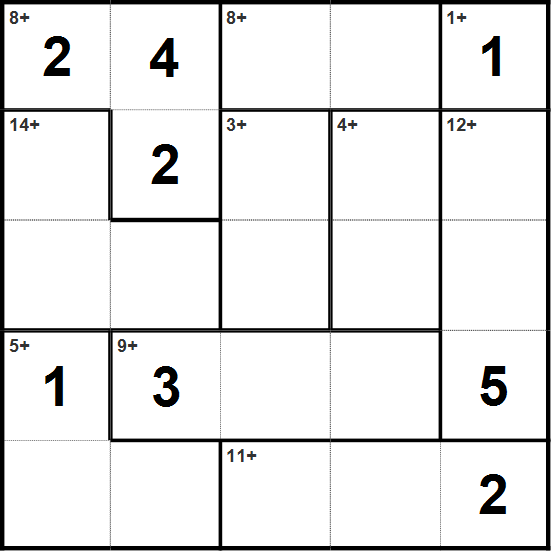
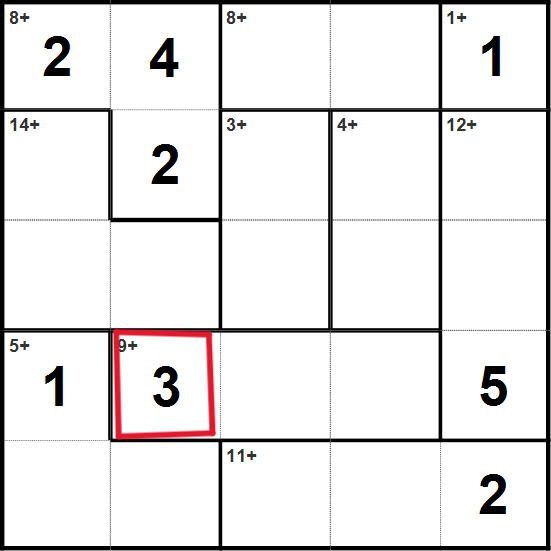
regles et tech

Changed region(s): [[0.1851, 0.5862, 0.4011, 0.8022]]

diff --git a/calcudoku/src/main/java/fr/univ/calcudoku/controller/ReglesTechniquesController.java b/calcudoku/src/main/java/fr/univ/calcudoku/controller/ReglesTechniquesController.java
@@ -190,25 +190,27 @@ public class ReglesTechniquesController {
             "- Calculatrice : Ouvre une petite calculatrice classique pour faire vos propres essais.\n" +
             "De même, vous trouvez les statistiques liées à votre profil et les parties en cours depuis l'onglet de Profile.", 
             null, // Vous pourrez mettre une capture d'écran de la calculatrice ici plus tard !
-            "Les aides au calcul"
+            ""
         ));
         
         // PAGE 2 : Les contrôles et annotations
         pages.add(new PageContenu(
-            "Vous pouvez personnaliser la façon dont vous remplissez la grille :\n\n" +
-            "- Déplacement : Jouez principalement au clavier en naviguant avec les flèches.\n" +
-            "- Placer chiffre : Cliquez sur une case pour ouvrir un menu circulaire et choisir votre chiffre.\n" +
-            "- Annotation : Permet d'écrire des petits chiffres 'brouillon' dans les coins d'une case.", 
-            null, // Une capture d'écran d'une case avec des annotations serait top ici
-            "Les modes de saisie"
+            "Vous pouvez remplir la grille avec les touches du clavier et la souris :\n\n" +
+            "- Déplacement : les 4 flèches du clavier.\n" +
+            "- Placer chiffre : à l'aide de touches numériques.\n" +
+            "- Annotation : Permet d'écrire des petits chiffres 'brouillon' dans une case. En appuyant sur la touche 'A'", 
+            "/grilles/images/touches.png", // Une capture d'écran d'une case avec des annotations serait top ici
+            "Contrôles du jeu"
         ));
 
         // PAGE 3 : plein partie du jeu
         pages.add(new PageContenu(
             "Depuis une partie du jeu, vous possedez le menu roulant qui permet de :\n\n" +
+            "- Abondonner : abondonnez la partie.\n" +
+            "- Recommencer : reinitialisez la partie.\n" +
             "- Changer le mode d'aide au calcul : combinaisons, calculatrice.\n" +
             "- Retour à Règles & Techniques : Consulter les règles du jeu, les fonctionnalités et les techniques.\n",
-            null, // Une capture d'écran d'une case avec des annotations serait top ici
+            "/grilles/images/menu.png", // Une capture d'écran d'une case avec des annotations serait top ici
             "Menu roulant"
         ));
 
@@ -216,22 +218,75 @@ public class ReglesTechniquesController {
     }
 
     @FXML
+    private void afficherBase() {
+        List<PageContenu> pages = new ArrayList<>();
+        
+        pages.add(new PageContenu(
+            "Certains puzzles CalcuDoku, particulièrement faciles, contiennent des blocs constitués d'un seul carré. Ceux-ci sont en fait donnés des indices et le nombre à placer est simplement le nombre dans le coin supérieur gauche du bloc carré unique, quelles que soient les opérations mathématiques indiquées au coin de cage.",
+            "/grilles/images/tech0.png", // 
+            "une case unique"
+        ));
+
+        chargerSection("Techniques de base", pages);
+    }
+
+    @FXML
     private void afficherBlocsUniques() {
         List<PageContenu> pages = new ArrayList<>();
         
         pages.add(new PageContenu(
-            "Technique : Le Bloc Unique (Addition)\n\n" +
-            " Vous rencontrez un bloc avec une opération dont la solution est mathématiquement unique.\n" +
-            " - L'Application : Par exemple, un bloc de deux cases avec la somme '4' ne peut contenir que la combinaison 1+3. Même si vous ne connaissez pas encore l'ordre, vous pouvez annoter ces deux cases avec un '1' et un '3'.", 
-            "/grilles/images/blocUnique1.png", // 
+            "Technique : Le Bloc Unique 1\n\n" +
+            "Dans la colonne de gauche du puzzle SingleOp CalcuDoku ci-dessous, nous voyons un bloc de deux carrés avec la somme 4. Puisque les règles CalcuDoku ne permettent pas au même nombre d’apparaître plus d’une fois dans une ligne ou une colonne, la seule combinaison pour satisfaire cette exigence est 1+3 bien que nous ne sachions pas encore dans quel ordre les nombres sont placés. On peut donc placer 4 dans le carré inférieur de la colonne de gauche, et 3, le reste du bloc, dans le carré adjacent.",
+            "/grilles/images/bloc1.png", // 
+            "Déduction d'une addition unique"
+        ));
+
+        pages.add(new PageContenu(
+            "Technique : Le Bloc Unique 2\n\n" +
+            "Nous pouvons utiliser la même technique pour les blocs avec multiplication. Dans la rangée inférieure de l'exemple ci-dessous se trouve un bloc de deux carrés avec le produit de multiplication 2. Cela signifie que la seule combinaison peut être 1x2 bien que nous ne sachions pas encore dans quel ordre les numéros sont placés. Comme nous en avons également 4 dans la rangée inférieure, le seul candidat pour le carré sur le côté droit de la rangée inférieure est 3. Après avoir placé 3, nous pouvons également placer 1, le reste du bloc, dans le carré au-dessus.",
+            "/grilles/images/bloc2.png", // 
+            "Déduction d'une addition unique"
+        ));
+
+        pages.add(new PageContenu(
+            "Technique : Le Bloc Unique 3\n\n" +
+            "Dans la rangée inférieure de l'exemple ci-dessous, nous voyons un bloc de deux carrés avec la somme 4. Puisque les règles CalcuDoku ne permettent pas au même nombre d’apparaître plus d’une fois dans une ligne ou une colonne, la seule combinaison peut être 1+3. Cependant, le carré supérieur gauche contient déjà 3, ce qui signifie qu'il n'y a qu'un seul moyen de placer 1 et 3 dans la ligne inférieure comme le montre le diagramme à droite.",
+            "/grilles/images/bloc3.png", // 
             "Déduction d'une addition unique"
         ));
         
         pages.add(new PageContenu(
-            "Technique : Le Bloc Unique (Multiplication & Division)\n\n" +
-            " La même logique s'applique aux autres opérations.\n" +
-            " -L'Application : Un bloc de deux cases avec un produit de '2' ne peut être que 1x2. Pour un bloc de trois cases avec un produit de '6', la seule combinaison autorisée est 1x2x3. Pour une division '2÷', les seules combinaisons sont 2÷1 ou 4÷2. Notez ces combinaisons dans vos brouillons !", 
-            "/grilles/images/blocUnique2.png", // 
+            "Technique : Le Bloc Unique 4\n\n" +
+            "Cet exemple est similaire à ceux ci-dessus, sauf qu'il y a deux carrés vides en haut de la colonne de gauche et les candidats pour ces carrés sont 4 et 5. Cependant, 5 est trop grand pour être placé dans le bloc haut-gauche, donc 4 reste le seul candidat comme le montre le diagramme de droite ci-dessous. Nous pouvons maintenant placer 1, le reste du bloc, dans le carré adjacent.",
+            "/grilles/images/bloc4.png", // 
+            "Déduction des produits et quotients"
+        ));
+
+        pages.add(new PageContenu(
+            "Technique : Le Bloc Unique 5\n\n" +
+            "Nous pouvons utiliser la même technique pour les blocs avec multiplication. La rangée supérieure de l'exemple ci-dessous contient un bloc de trois carrés avec le produit de multiplication 6. Comme la seule combinaison autorisée est 1x2x3, nous pouvons déduire que 4 et 5 sont dans les deux carrés restants dans la rangée supérieure. Cependant, nous ne pouvons pas placer 5 dans le carré le plus à droite, car 8 ne peut être que le résultat de 2x4. Par conséquent, nous devons placer 4 dans le carré de haut à droite et 2, le reste du bloc, dans la place sous elle.",
+            "/grilles/images/bloc5.png", // 
+            "Déduction des produits et quotients"
+        ));
+
+        pages.add(new PageContenu(
+            "Technique : Le Bloc Unique 6\n\n" +
+            "Vous trouverez ci-dessous un puzzle DualOp CalcuDoku qui utilise des opérations de multiplication et de division. Semblable aux exemples précédents, le seul candidat pour le carré gauche dans la deuxième rangée du puzzle ci-dessous est 3. Après avoir placé 3, nous pouvons également placer 1 dans le carré ci-dessous, car c'est le seul moyen d'obtenir le résultat de division de 3.",
+            "/grilles/images/bloc6.png", // 
+            "Déduction des produits et quotients"
+        ));
+
+        pages.add(new PageContenu(
+            "Technique : Le Bloc Unique 7\n\n" +
+            "Voici un autre exemple d'utilisation de la technique de bloc unique dans un puzzle DualOp CalcuDoku avec multiplication et division. Examinons le bloc avec 2÷ dans la colonne de gauche. Il n'y a que deux combinaisons possibles, 2÷1 et 4÷2 qui font de 1, 2 et 4 les seuls candidats possibles pour ce bloc. Cependant, la quatrième rangée contient déjà 1 et 4 laissant 2 comme seule possibilité pour le carré gauche de la quatrième rangée. Contrairement aux exemples précédents, nous ne pouvons pas encore placer le reste du bloc puisque 1 et 4 sont possibles.",
+            "/grilles/images/bloc7.png", // 
+            "Déduction des produits et quotients"
+        ));
+
+        pages.add(new PageContenu(
+            "Technique : Le Bloc Unique 8\n\n" +
+            "Parfois, il est plus difficile d'identifier des techniques de bloc uniques comme le montre l'exemple ci-dessous. La seule combinaison possible pour le bloc supérieur dans la colonne de droite est 1+2. Cependant, lorsque nous examinons le bloc de trois carrés de la première rangée, nous ne voyons que 2+4+5 est possible, ce qui exclut 2 du carré supérieur dans la colonne de droite et laisse 1 comme son seul candidat. Après avoir placé 1 dans le carré supérieur de la colonne de droite, nous pouvons également placer 2, le reste du bloc, dans le carré en dessous.",
+            "/grilles/images/bloc8.png", // 
             "Déduction des produits et quotients"
         ));
 
@@ -243,9 +298,7 @@ public class ReglesTechniquesController {
         List<PageContenu> pages = new ArrayList<>();
         
         pages.add(new PageContenu(
-            "Technique : Le Candidat Unique\n\n" +
-            "- La Situation : Une ligne ou une colonne est presque pleine.\n" +
-            "- L'Application : Selon les règles du jeu, un nombre n'apparaît qu'une seule fois par ligne et colonne. Si les chiffres 1, 2, 4 et 5 sont déjà placés dans la ligne ou la colonne croisant votre case, le seul candidat restant est obligatoirement le 3.", 
+            "Selon la première règle de CalcuDoku, un nombre ne peut apparaître qu'une seule fois dans la même ligne ou colonne, regardons la case avec un cadre rouge dans la grille ci-dessous. Comme 1 et 5 ont déjà été placés dans d'autres carrés de cette rangée, et que 2 et 4 ont déjà été placés dans d'autres carrés dans cette colonne, le seul candidat restant est 3.", 
             "/grilles/images/candidat1.png", // 
             "Élimination croisée classique"
         ));
@@ -260,25 +313,30 @@ public class ReglesTechniquesController {
         pages.add(new PageContenu(
             "Technique : Le Reste de Grille (Le Principe)\n\n" +
             "- La Situation : Vous devez trouver la valeur d'une case isolée.\n" +
-            "- L'Application : La somme totale d'une ligne ou colonne est toujours identique. Dans une grille 5x5, la somme d'une ligne est toujours 15 (1+2+3+4+5). De même, le produit total d'une ligne 5x5 est toujours 120 (1x2x3x4x5).", 
-            "/grilles/images/rest1.png", 
-            "La constante mathématique des lignes"
+            "- L'Application : La somme (resp le produit) totale d'une ligne (resp colonne) est toujours identique pour chaque ligne (resp colonne) de une grille. Dans la grille 5x5, la somme d'une ligne est toujours 15 (1+2+3+4+5). De même, le produit total d'une ligne 5x5 est toujours 120 (1x2x3x4x5).", 
+            "/grilles/images/rest0.png", 
+            "Principe"
         ));
         
         pages.add(new PageContenu(
-            "Technique : La case qui rentre\n\n" +
-            "- La Situation : Une colonne contient plusieurs blocs complets, et UNE seule case vide appartenant à un bloc voisin.\n" +
-            "- L'Application : Additionnez les blocs complets. Si deux blocs totalisent 10 (ex: 2 + 8), et que la colonne doit faire 15 au total, la différence (15 - 10 = 5) correspond obligatoirement à la case vide restante.", 
-            "/grilles/images/rest1.png", // 
-            "Soustraction sur une colonne"
+            "Technique : grille restante 1\n\n" +
+            "La rangée supérieure du puzzle ci-dessous a deux blocs entièrement contenus ombragés en gris, l'un avec la somme 2 (qui est en fait une donnée) et l'autre avec la somme 8. Ensemble, ces deux blocs résument jusqu'à 2 + 8 = 10, mais nous savons que n'importe quelle ligne ou toute colonne dans une grille 5x5 doit résumer jusqu'à 1 + 2 + 3 + 4 + 5 = 15 = 15. Cela signifie que la différence 15-10=5 est causée par le carré non ombragé dans la rangée supérieure et nous pouvons donc y placer 5.",
+            "/grilles/images/rest1.1.png", // 
+            "Addition sur une ligne"
         ));
 
         pages.add(new PageContenu(
-            "Technique : La case qui déborde (Multiplication)\n\n" +
-            "- La Situation : Deux blocs multiplicatifs sont sur une colonne, mais l'un d'eux déborde d'une case sur la colonne voisine.\n" +
-            "- L'Application : Multipliez les valeurs des blocs (ex: 8 x 60 = 480). Puisque la colonne doit valoir 120 au total, le résultat excédentaire divisé par le total (480 ÷ 120 = 4) vous donne la valeur exacte de la case qui a débordé !", 
-            "/grilles/images/rest2.png", // 
-            "Division de l'excédent multiplicatif"
+            "Technique : grille restante 2\n\n" +
+            "Voici un autre exemple avec un twist. La colonne de gauche contient deux blocs ombragés en gris, un avec la somme 10 qui est entièrement contenue dans la colonne de gauche, et un avec la somme 9 qui ne comporte que deux carrés contenus dans la colonne de gauche. Ensemble, ces deux blocs résument jusqu'à 10+9 = 19, mais nous savons que n'importe quelle ligne ou n'importe quelle colonne dans un puzzle CalcuDoku 5x5 doit résumer jusqu'à 1 + 2 + 3 + 4 + 5 = 15. Cela signifie que la différence 19-15 = 4 est causée par le carré dans le bloc inférieur qui n’est pas contenu dans la colonne de gauche et nous pouvons donc y placer 4.",
+            "/grilles/images/rest2.1.png", // 
+            "Le trou du bloc"
+        ));
+
+        pages.add(new PageContenu(
+            "Technique : grille restante 3\n\n" +
+            "La colonne de droite du puzzle ci-dessous contient deux blocs ombragés en gris, un avec le produit 8 qui est entièrement contenu dans la colonne de droite, et un avec le produit 60 qui ne comporte que deux carrés contenus dans la colonne de droite. Ensemble, ces deux blocs ont un produit de 8x60 = 480, mais nous savons que le produit de n'importe quelle ligne ou de n'importe quelle colonne dans un puzzle CalcuDoku 5x5 doit être 1x2x3x4x5 = 120. Cela signifie que le quotient 480÷120=4 est causé par le carré qui n’est pas contenu dans la colonne de droite et nous pouvons donc y placer 4.",
+            "/grilles/images/rest3.1.png", // 
+            "Multiplication sur une colonne"
         ));
 
         chargerSection("Technique : Reste de Grille", pages);
@@ -289,19 +347,32 @@ public class ReglesTechniquesController {
         List<PageContenu> pages = new ArrayList<>();
         
         pages.add(new PageContenu(
-            "Technique : L'Intra Bloc et les Diagonales\n\n" +
+            "Technique : L'Intra Bloc 1\n\n" +
             "- La Situation : Vous faites face à un bloc en forme de 'L' de 3 cases.\n" +
             "- L'Application : Si ce bloc a une somme de 14 (dans une grille 5x5), la seule combinaison possible est 4+5+5. En plus de connaître les chiffres, vous connaissez leur position : les deux '5' doivent obligatoirement être placés en diagonale pour ne pas enfreindre la règle d'unicité sur les lignes/colonnes !", 
-            "/grilles/images/intra1.png", // 
-            "Placement diagonal forcé"
+            "/grilles/images/intra1.1.png", // 
+            "Placement diagonal en L"
         ));
 
         pages.add(new PageContenu(
-            "Technique : Le bloc saturé\n\n" +
-            "- La Situation : Vous avez un bloc de 4 cases (somme 7), mais 3 de ses cases sont alignées sur la même colonne.\n" +
-            "- L'Application : La somme minimale pour 3 cases dans une colonne est 1+2+3 = 6. Puisque la somme totale du bloc est 7, il est mathématiquement impossible de faire plus que 6 dans la colonne. La 4ème case isolée vaut donc obligatoirement 1 (7 - 6).", 
-            "/grilles/images/intra2.png", // 
-            "Déduction par somme minimale"
+            "Technique : L'Intra Bloc 2\n\n" +
+            "Dans le puzzle ci-dessous, trois des quatre carrés du bloc ombragé sont contenus dans une colonne. Cela signifie que la seule combinaison possible pour ces trois carrés est 1+2+3=6 car toute autre combinaison atteindra ou dépassera 7, la somme de ce bloc, ne permettant donc aucun nombre dans son quatrième carré. On peut donc placer 1, le reste du bloc calculé de 7-6, dans le quatrième carré.",
+            "/grilles/images/intra2.1.png", // 
+            "Intra 2"
+        ));
+
+        pages.add(new PageContenu(
+            "Technique : L'Intra Bloc 3\n\n" +
+            "Les techniques de bloc intra peuvent être utilisées aussi bien pour les blocs avec multiplication. Dans l'exemple ci-dessous, la seule combinaison pour le produit 80 dans le bloc ombragé est 4x4x5. Cette situation est vraie pour tous les blocs en L de trois carrés d'un puzzle 5x5. En plus de savoir quels nombres doivent être placés, nous savons également où ils devraient être puisque les 4 doivent être en diagonale pour éviter qu’un nombre n’apparaisse dans la même ligne ou la même colonne plus d’une fois.",
+            "/grilles/images/intra3.1.png", // 
+            "Intra 3"
+        ));
+
+        pages.add(new PageContenu(
+            "Technique : L'Intra Bloc 4\n\n" +
+            "Dans les puzzles CalcuDoku 5x5, les seules combinaisons pour le produit 32 en quatre carrés sont 1x2x4x4 et 2x2x2x4. Si nous regardons le bloc en forme de L ombragé en dessous, il est évident que la deuxième combinaison n'est pas possible car peu importe comment nous plaçons les nombres, il y en aura toujours 2 dans la même ligne ou la même colonne. Cela signifie que seul 1x2x4x4 est autorisé et 4 doit être placé dans le carré gauche pour éviter tout conflit avec l'autre 4.",
+            "/grilles/images/intra4.1.png", // 
+            "Intra 4"
         ));
 
         chargerSection("Technique : Intra Bloc", pages);
